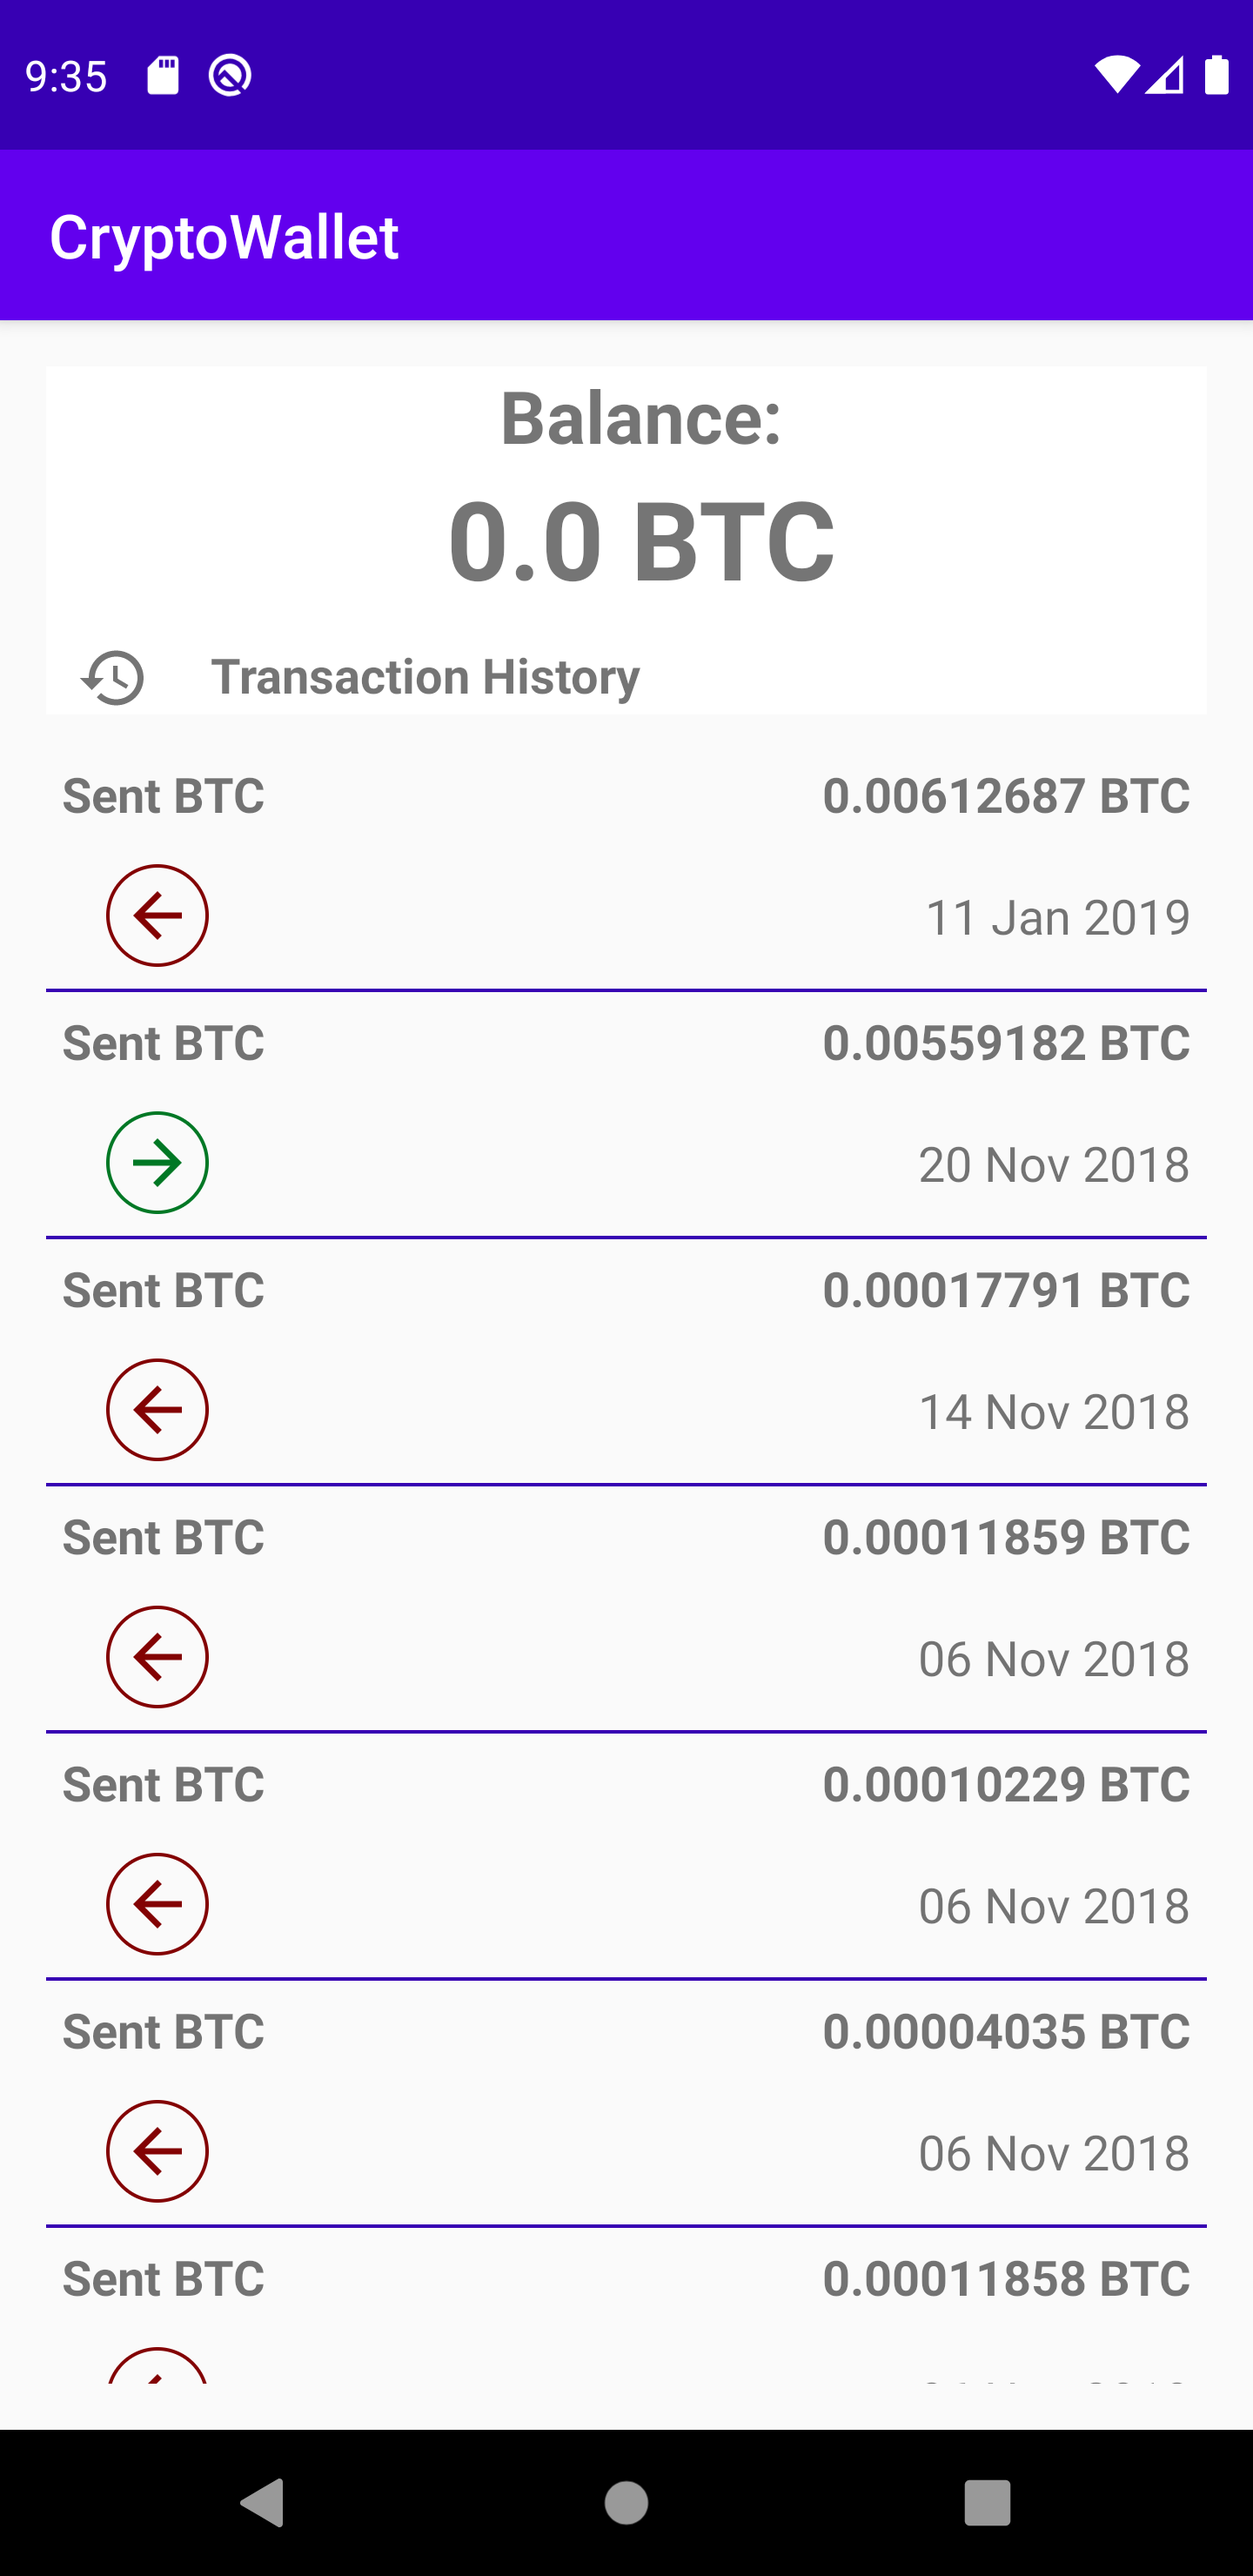
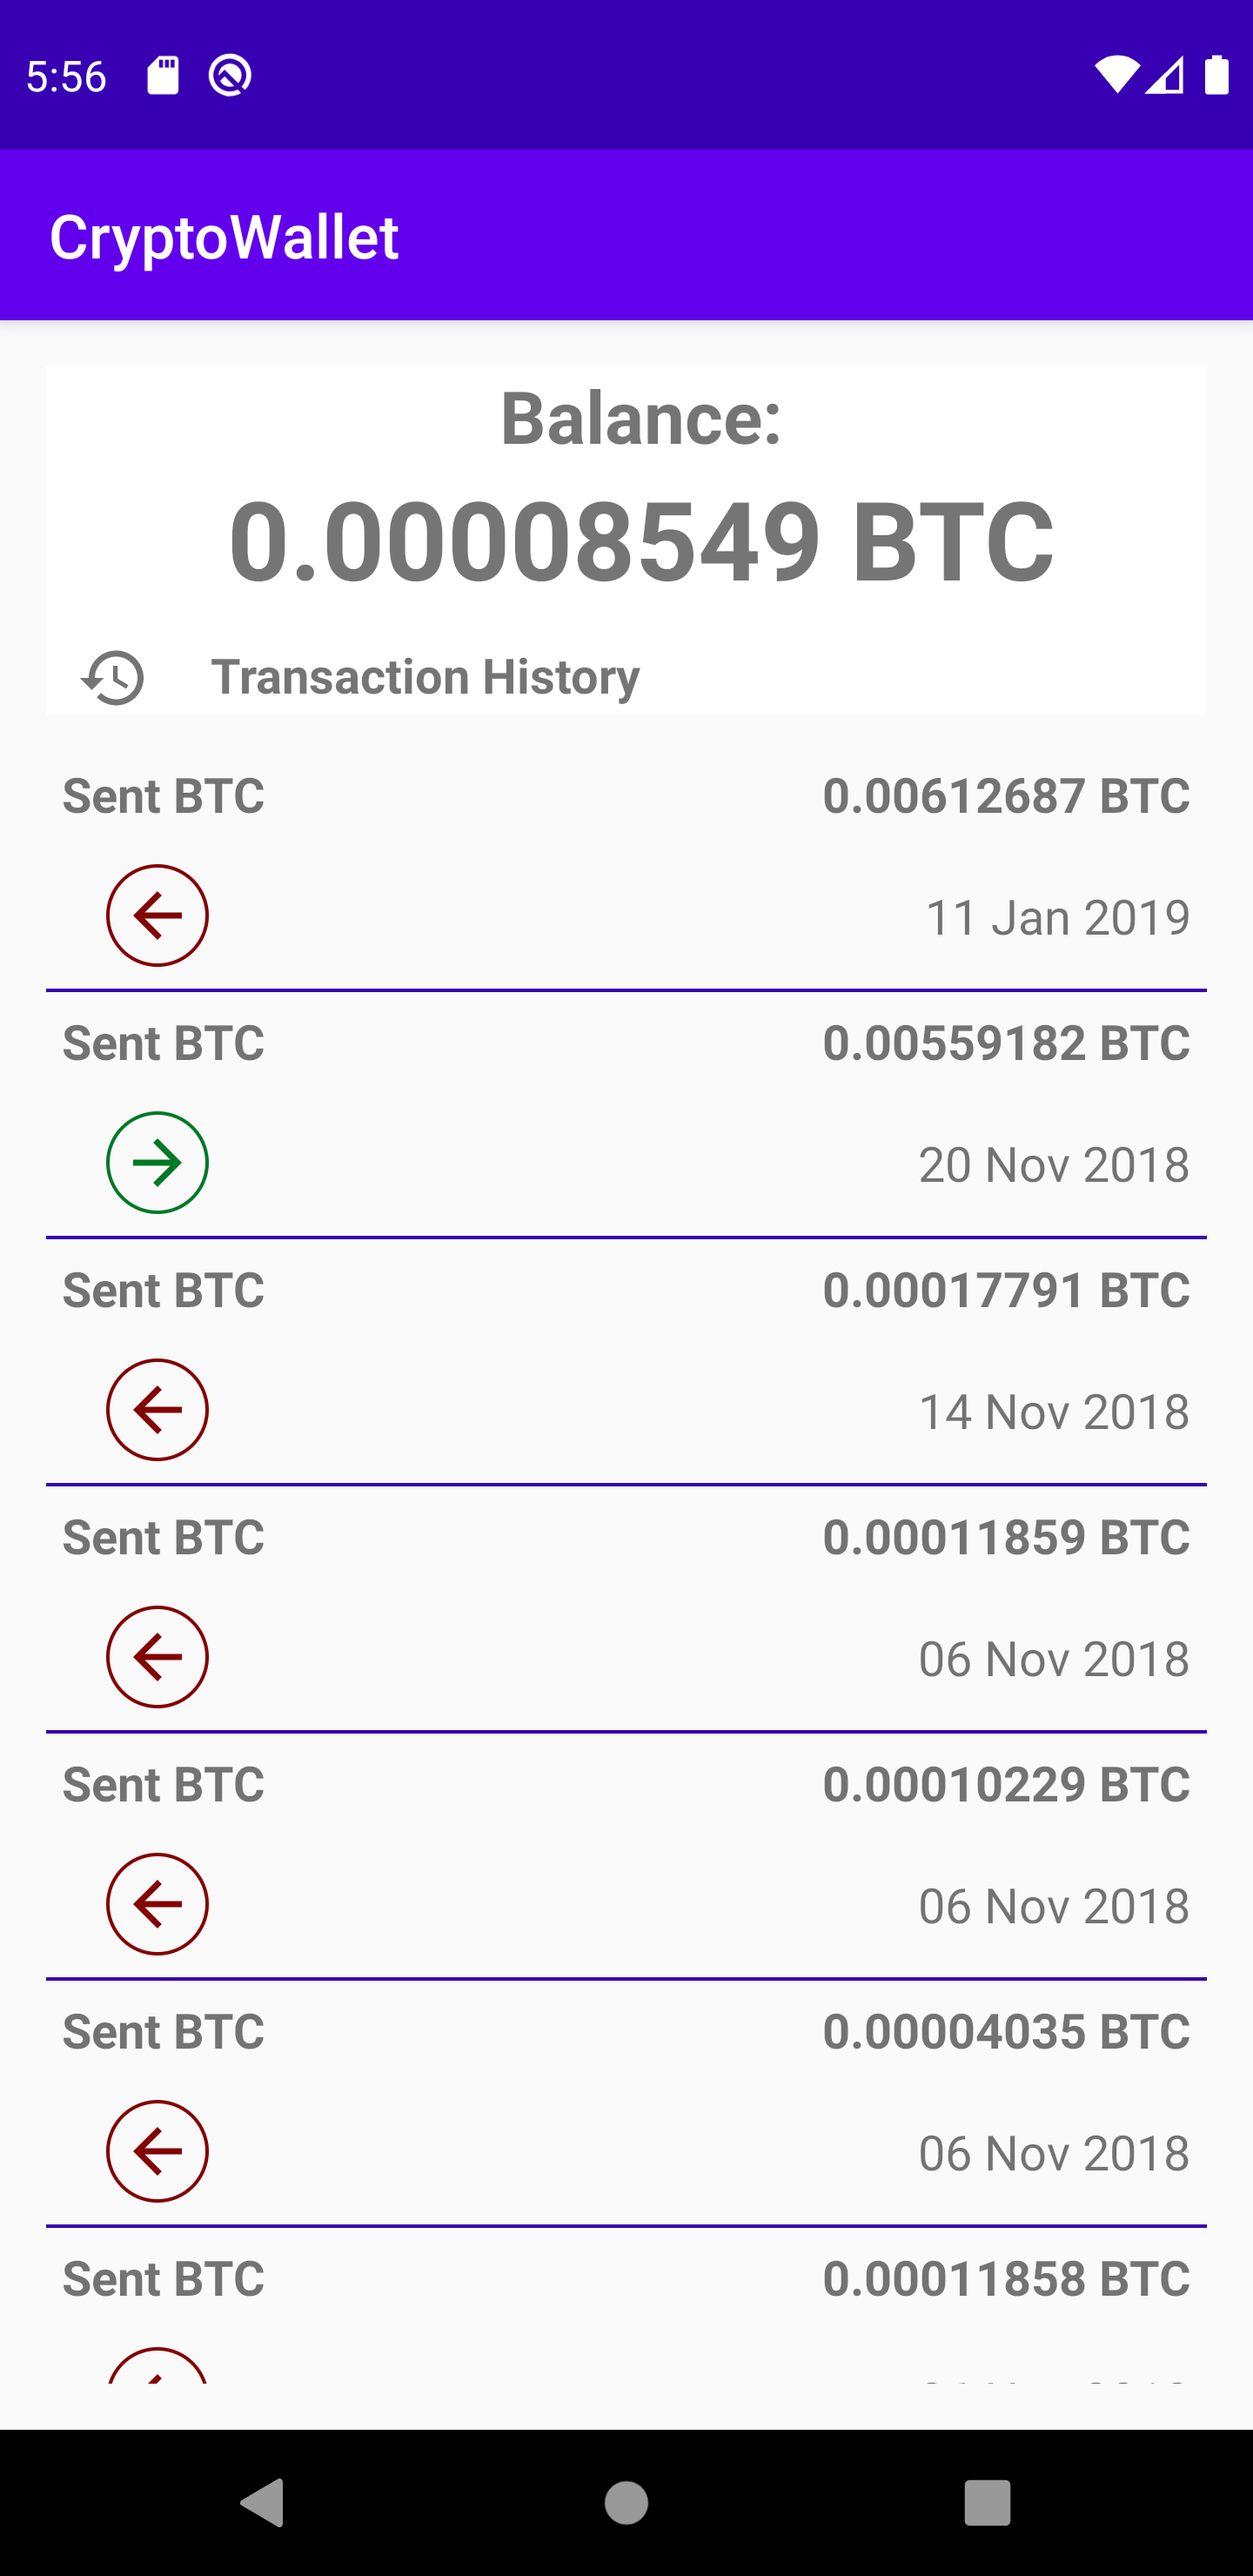
Fixing balance displayed as zero

Changed region(s): [[0.4062, 0.1865, 0.8438, 0.2486], [0.1875, 0.1865, 0.375, 0.2486]]

diff --git a/repository/src/main/java/com/fireblade/repository/network/domain/NetworkWallet.kt b/repository/src/main/java/com/fireblade/repository/network/domain/NetworkWallet.kt
@@ -1,5 +1,8 @@
 package com.fireblade.repository.network.domain
 
+import com.google.gson.annotations.SerializedName
+
 data class NetworkWallet(
+    @SerializedName("final_balance")
     val finalBalance: Long
 )
